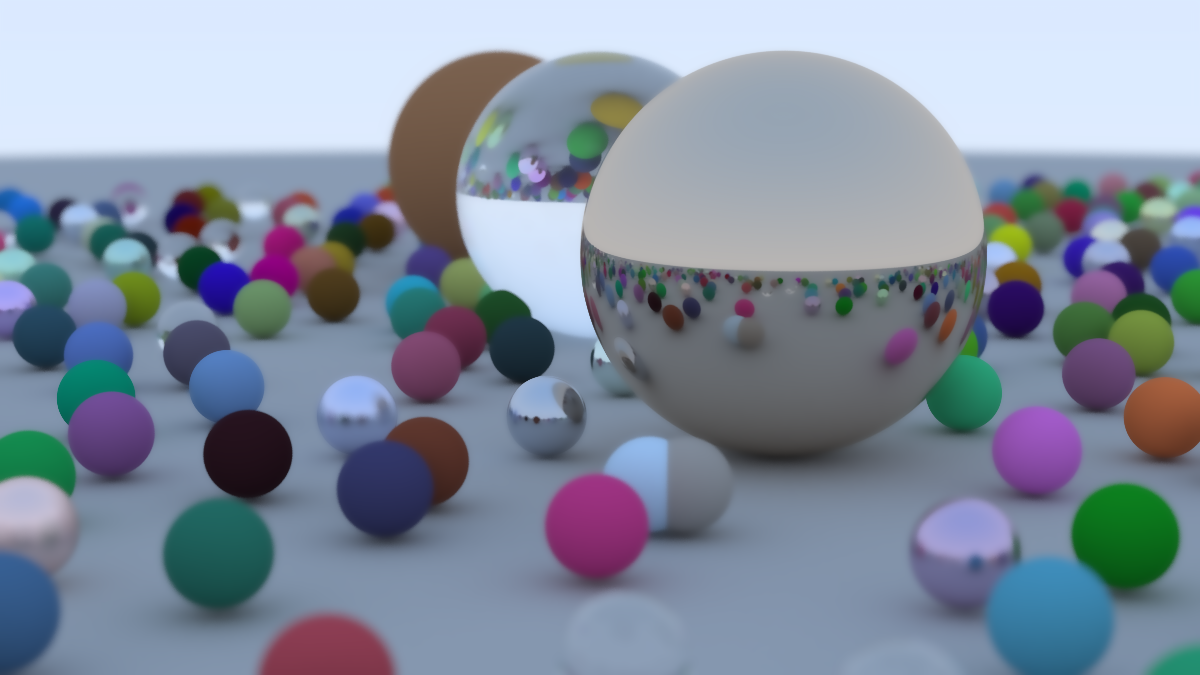
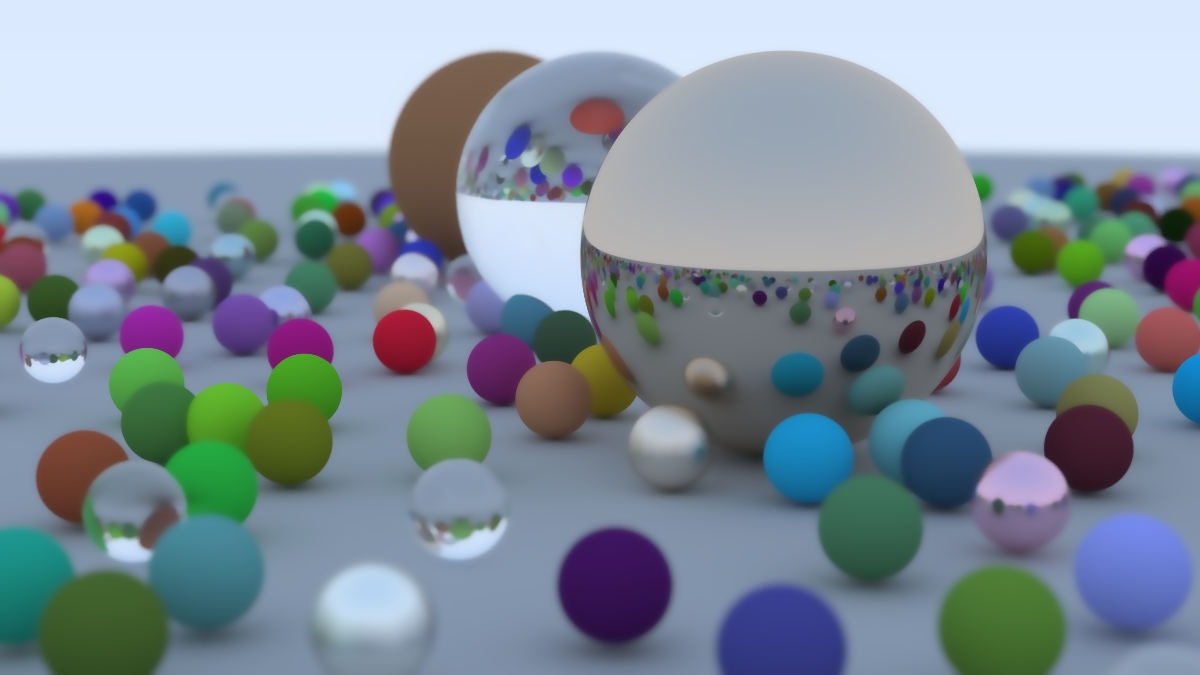
optimise for runtime parallelism

diff --git a/raytracer/camera.go b/raytracer/camera.go
@@ -7,6 +7,7 @@ import (
 	"math"
 	"math/rand/v2"
 	"raytracer/math3"
+	"runtime"
 )
 
 type Camera struct {
@@ -14,7 +15,7 @@ type Camera struct {
 	Height           int
 	AspectRatio      float64
 	SamplesPerPixel  int
-	MaxDepth         float64
+	MaxDepth         int
 	VFov             float64
 	PixelSampleScale float64
 	DefocusAngle     float64
@@ -34,7 +35,7 @@ type CameraParams struct {
 	Width           int
 	AspectRatio     float64
 	SamplesPerPixel int
-	MaxDepth        float64
+	MaxDepth        int
 	VFov            float64
 	LookFrom        math3.Vec3
 	LookAt          math3.Vec3
@@ -78,39 +79,52 @@ func NewCamera(params CameraParams) *Camera {
 	return cam
 }
 
-func (cam *Camera) Render(world World, usePool bool) *image.RGBA {
-	img := image.NewRGBA(image.Rect(0, 0, cam.Width, cam.Height))
-
+func (cam *Camera) Render(world *World, usePool bool) *image.RGBA {
 	if !usePool {
+		img := image.NewRGBA(image.Rect(0, 0, cam.Width, cam.Height))
 		for y := 0; y < cam.Height; y++ {
 			fmt.Printf("Rendering scanline %d\n", y)
 			for x := 0; x < cam.Width; x++ {
-				img.Set(x, y, cam.RenderPixel(x, y, &world))
+				img.Set(x, y, cam.RenderPixel(x, y, world))
 			}
 		}
 		return img
 	}
+	return cam.RenderAsync(world)
+}
 
-	numWorkers := 8
-	chunkSize := 64
-	wp := NewWorkerPool(numWorkers, &world)
-	wp.Start(img, cam.RenderPixel)
-	i := 0
+func (cam *Camera) RenderAsync(world *World) *image.RGBA {
+	img := image.NewRGBA(image.Rect(0, 0, cam.Width, cam.Height))
+	numWorkers := runtime.NumCPU() - 1
+	chunkSize := 32
+	wp := NewWorkerPool(numWorkers, world)
+	totalChunks := int(math.Ceil(float64(cam.Width)/float64(chunkSize))) * int(math.Ceil(float64(cam.Height)/float64(chunkSize)))
+	chunks := make([]WorkerJob, 0, totalChunks)
+	chunkID := 0
+
 	for y := 0; y < cam.Height; y += chunkSize {
 		for x := 0; x < cam.Width; x += chunkSize {
-			job := WorkerJob{
+			chunks = append(chunks, WorkerJob{
 				XStart: x,
 				YStart: y,
 				XEnd:   min(x+chunkSize, cam.Width),
 				YEnd:   min(y+chunkSize, cam.Height),
-				Chunk:  i,
-			}
-			wp.Jobs <- job
-			i++
+				Chunk:  chunkID,
+			})
+			chunkID++
 		}
 	}
 
-	// Wait for all workers to finish
+	rand.Shuffle(len(chunks), func(i, j int) {
+		chunks[i], chunks[j] = chunks[j], chunks[i]
+	})
+
+	wp.Start(chunkID, img, cam.RenderPixel)
+	fmt.Printf("Total jobs: %d\n", chunkID+1)
+	for _, job := range chunks {
+		wp.Jobs <- job
+	}
+
 	wp.Wait()
 	return img
 }
@@ -140,12 +154,19 @@ func (cam *Camera) DefocusDiskSample() math3.Vec3 {
 	return cam.Center.Add(cam.DefocusDiskU.Scale(p.X())).Add(cam.DefocusDiskV.Scale(p.Y()))
 }
 
-func (cam *Camera) RayColor(r math3.Ray, depth float64, world *World) math3.Vec3 {
+func (cam *Camera) RayColor(r math3.Ray, depth int, world *World) math3.Vec3 {
 	if depth <= 0 {
 		return math3.Vec3{0.0, 0.0, 0.0}
 	}
 	if result, hasHit := world.Hit(r, Interval{Min: 0.001, Max: math.MaxFloat64}); hasHit {
 		if attenuation, scattered, ok := result.Material.Scatter(r, result); ok {
+			survivalScale, shouldTerminate := cam.ShouldTerminateRay(&attenuation, depth)
+			if shouldTerminate {
+				return math3.Vec3{0.0, 0.0, 0.0}
+			}
+			if survivalScale > 0 {
+				attenuation = attenuation.Scale(1 / survivalScale)
+			}
 			return cam.RayColor(scattered, depth-1, world).Multiply(attenuation)
 		}
 		return math3.Vec3{}
@@ -153,4 +174,19 @@ func (cam *Camera) RayColor(r math3.Ray, depth float64, world *World) math3.Vec3
 	d := r.Direction.Normalize()
 	a := 0.5 * (d.Y() + 1.0)
 	return math3.Vec3{1.0, 1.0, 1.0}.Scale(1.0 - a).Add(math3.Vec3{0.5, 0.7, 1.0}.Scale(a))
+}
+
+func (cam *Camera) ShouldTerminateRay(attenuation *math3.Vec3, depth int) (float64, bool) {
+	energy := attenuation.MaxComponent()
+	var survivalProb float64
+	// Start using Russian Roulette after a few bounces
+	if depth < cam.MaxDepth-2 {
+		terminationProb := math.Max(0.0, 1.0-energy)
+		if rand.Float64() < terminationProb {
+			return 0, true
+		}
+
+		survivalProb = 1.0 - terminationProb
+	}
+	return survivalProb, false
 }

diff --git a/raytracer/pool.go b/raytracer/pool.go
@@ -5,6 +5,7 @@ import (
 	"image"
 	"image/color"
 	"sync"
+	"time"
 )
 
 type WorkerJob struct {
@@ -18,10 +19,14 @@ type WorkerJob struct {
 type ComputeFunc func(x int, y int, world *World) color.Color
 
 type WorkerPool struct {
-	Workers int
-	Jobs    chan WorkerJob
-	Wg      *sync.WaitGroup
-	World   *World
+	Workers       int
+	totalJobs     int
+	remainingJobs int
+	startTime     time.Time
+	mu            sync.Mutex
+	Jobs          chan WorkerJob
+	Wg            *sync.WaitGroup
+	World         *World
 }
 
 func NewWorkerPool(workers int, world *World) *WorkerPool {
@@ -33,7 +38,10 @@ func NewWorkerPool(workers int, world *World) *WorkerPool {
 	}
 }
 
-func (wp *WorkerPool) Start(img *image.RGBA, compute ComputeFunc) {
+func (wp *WorkerPool) Start(totalJobs int, img *image.RGBA, compute ComputeFunc) {
+	wp.totalJobs = totalJobs
+	wp.remainingJobs = totalJobs
+	wp.startTime = time.Now()
 	for i := 0; i < wp.Workers; i++ {
 		wp.Wg.Add(1)
 		go wp.worker(img, compute)
@@ -43,18 +51,58 @@ func (wp *WorkerPool) Start(img *image.RGBA, compute ComputeFunc) {
 func (wp *WorkerPool) worker(img *image.RGBA, compute ComputeFunc) {
 	defer wp.Wg.Done()
 	for job := range wp.Jobs {
-		fmt.Printf("Worker picked up chunk %d\n", job.Chunk)
+		start := time.Now()
+		fmt.Printf("Worker picked up job %d\n", job.Chunk)
 		for y := job.YStart; y < job.YEnd; y++ {
 			for x := job.XStart; x < job.XEnd; x++ {
 				color := compute(x, y, wp.World)
 				img.Set(x, y, color)
 			}
 		}
-		fmt.Printf("Worker finished chunk %d\n", job.Chunk)
+		wp.mu.Lock()
+		wp.remainingJobs--
+		wp.mu.Unlock()
+		total := time.Since(start)
+		elapsed := time.Since(wp.startTime)
+		fmt.Printf("Worker finished job %d of %d in %s (remaining %d - time so far %s)\n", job.Chunk, wp.totalJobs, formatDuration(total), wp.remainingJobs, elapsed.String())
 	}
 }
 
 func (wp *WorkerPool) Wait() {
 	close(wp.Jobs)
 	wp.Wg.Wait()
+}
+
+func formatDuration(d time.Duration) string {
+	h := d / time.Hour
+	d -= h * time.Hour
+
+	m := d / time.Minute
+	d -= m * time.Minute
+
+	s := d / time.Second
+	d -= s * time.Second
+
+	ms := d / time.Millisecond
+	d -= ms * time.Millisecond
+
+	us := d / time.Microsecond
+
+	result := ""
+	if h > 0 {
+		result += fmt.Sprintf("%dh", h)
+	}
+	if m > 0 {
+		result += fmt.Sprintf("%dm", m)
+	}
+	if s > 0 {
+		result += fmt.Sprintf("%ds", s)
+	}
+	if ms > 0 {
+		result += fmt.Sprintf("%dms", ms)
+	}
+	if us > 0 && result == "" { // only show microseconds if it's the only value
+		result += fmt.Sprintf("%dµs", us)
+	}
+	return result
 }

diff --git a/cmd/main.go b/cmd/main.go
@@ -3,26 +3,20 @@ package main
 import (
 	"fmt"
 	"image/png"
-	"log"
 	"math/rand/v2"
 	"os"
 	"raytracer/math3"
 	"raytracer/raytracer"
-	"runtime/pprof"
+	"time"
 )
 
 func main() {
-	f, err := os.Create("cpu_profile.prof")
-	if err != nil {
-		log.Fatal(err)
-	}
-	pprof.StartCPUProfile(f)
-	defer pprof.StopCPUProfile()
+	start := time.Now()
 
 	world := raytracer.World{}
 
 	ground := raytracer.Lambertian{Albedo: math3.Vec3{0.5, 0.5, 0.5}}
-	world.Add(raytracer.Sphere{Center: math3.Vec3{0, -1000, -1}, Radius: 1000, Material: ground})
+	world.Add(&raytracer.Sphere{Center: math3.Vec3{0, -1000, -1}, Radius: 1000, Material: ground})
 
 	for a := -11; a < 11; a++ {
 		for b := -11; b < 11; b++ {
@@ -42,7 +36,7 @@ func main() {
 				default:
 					material = raytracer.Dialectric{RefractionIndex: 1.5}
 				}
-				world.Add(raytracer.Sphere{Center: center, Radius: 0.2, Material: material})
+				world.Add(&raytracer.Sphere{Center: center, Radius: 0.2, Material: material})
 			}
 		}
 	}
@@ -51,10 +45,11 @@ func main() {
 	mat2 := raytracer.Lambertian{Albedo: math3.Vec3{0.4, 0.2, 0.1}}
 	mat3 := raytracer.Metal{Albedo: math3.Vec3{0.7, 0.6, 0.5}, Fuzz: 0.0}
 
-	world.Add(raytracer.Sphere{Center: math3.Vec3{0, 1, 0}, Radius: 1, Material: mat1})
-	world.Add(raytracer.Sphere{Center: math3.Vec3{-4, 1, 0}, Radius: 1, Material: mat2})
-	world.Add(raytracer.Sphere{Center: math3.Vec3{4, 1, 0}, Radius: 1, Material: mat3})
+	world.Add(&raytracer.Sphere{Center: math3.Vec3{0, 1, 0}, Radius: 1, Material: mat1})
+	world.Add(&raytracer.Sphere{Center: math3.Vec3{-4, 1, 0}, Radius: 1, Material: mat2})
+	world.Add(&raytracer.Sphere{Center: math3.Vec3{4, 1, 0}, Radius: 1, Material: mat3})
 
+	world.Prepare()
 	camera := raytracer.NewCamera(raytracer.CameraParams{
 		Width:           1200,
 		AspectRatio:     16 / 9.0,
@@ -66,7 +61,7 @@ func main() {
 		DefocusAngle:    0.6,
 		FocusDist:       10,
 	})
-	render := camera.Render(world, true)
+	render := camera.Render(&world, true)
 	fmt.Println("denoising....")
 	img := raytracer.BilateralFilter(render, 3.0, 0.2)
 	file, err := os.Create("final-screenshot.png")
@@ -77,12 +72,6 @@ func main() {
 	if err := png.Encode(file, img); err != nil {
 		panic("Could not write to file")
 	}
-
-	fmt.Println("Image saved as final-screenshot.png")
-	mf, err := os.Create("mem_profile.prof")
-	if err != nil {
-		log.Fatal(err)
-	}
-	pprof.WriteHeapProfile(mf)
-	mf.Close()
+	total := time.Since(start)
+	fmt.Printf("Took: %s\n", total.String())
 }

diff --git a/raytracer/sphere.go b/raytracer/sphere.go
@@ -6,16 +6,25 @@ import (
 )
 
 type Sphere struct {
-	Center   math3.Vec3
-	Radius   float64
-	Material Material
+	Center       math3.Vec3
+	Radius       float64
+	Material     Material
+	RadiusSquare float64
 }
 
-func (s Sphere) Hit(ray math3.Ray, rayT Interval) (HitRecord, bool) {
+func (s *Sphere) Prepare() {
+	s.RadiusSquare = s.Radius * s.Radius
+}
+
+func (s *Sphere) Origin() math3.Vec3 {
+	return s.Center
+}
+
+func (s *Sphere) Hit(ray math3.Ray, rayT Interval) (HitRecord, bool) {
 	oc := s.Center.Sub(ray.Origin)
 	a := ray.Direction.LengthSquared()
 	h := math3.Dot(ray.Direction, oc)
-	c := oc.LengthSquared() - s.Radius*s.Radius
+	c := oc.LengthSquared() - s.RadiusSquare
 	disc := h*h - a*c
 	if disc < 0 {
 		return HitRecord{}, false

diff --git a/raytracer/world.go b/raytracer/world.go
@@ -2,6 +2,7 @@ package raytracer
 
 import (
 	"raytracer/math3"
+	"slices"
 )
 
 type World struct {
@@ -14,6 +15,17 @@ func (w *World) Clear() {
 
 func (w *World) Add(obj Hittable) {
 	w.Objects = append(w.Objects, obj)
+}
+
+func (w *World) Prepare() {
+	for _, obj := range w.Objects {
+		obj.Prepare()
+	}
+	// closest first should lead to less iterations
+	slices.SortFunc(w.Objects, func(a Hittable, b Hittable) int {
+		return int(a.Origin().Z() - b.Origin().Z())
+	})
+
 }
 
 func (w *World) Hit(ray math3.Ray, rayT Interval) (HitRecord, bool) {

diff --git a/math3/vec3.go b/math3/vec3.go
@@ -73,3 +73,7 @@ func (vec Vec3) IsNearZero() bool {
 func (vec Vec3) Multiply(v Vec3) Vec3 {
 	return Vec3{vec[0] * v[0], vec[1] * v[1], vec[2] * v[2]}
 }
+
+func (v Vec3) MaxComponent() float64 {
+	return math.Max(math.Max(v.X(), v.Y()), v.Z())
+}

diff --git a/raytracer/hitrecord.go b/raytracer/hitrecord.go
@@ -3,7 +3,9 @@ package raytracer
 import "raytracer/math3"
 
 type Hittable interface {
+	Origin() math3.Vec3
 	Hit(ray math3.Ray, rayT Interval) (HitRecord, bool)
+	Prepare()
 }
 
 type HitRecord struct {

diff --git a/readme.md b/readme.md
@@ -8,7 +8,7 @@ Based off of the excellent [Ray Tracing in One Weekend](https://raytracing.githu
 make run
 ```
 
-takes about 
+takes about ~13mins on my machine to run
 
 The paramaters of the camera and the setup of material and objects in the world are all located in `./cmd/main.go`
 
